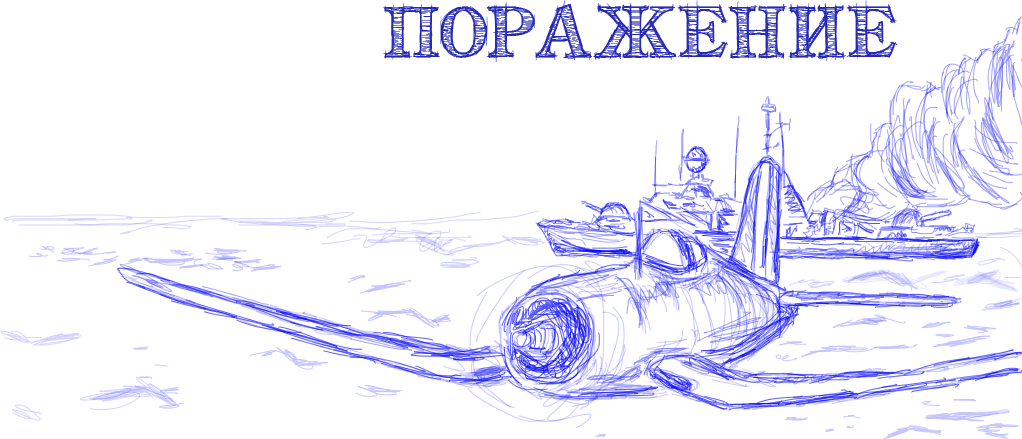
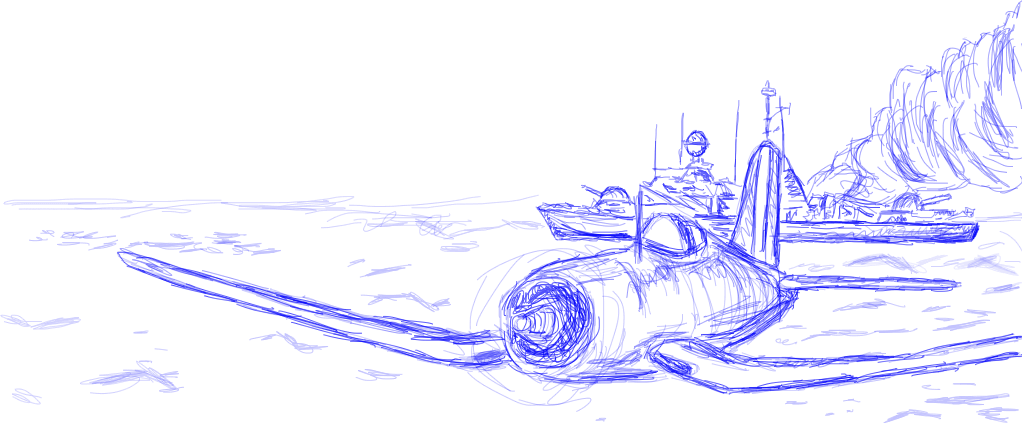
взависимости от победителя выводим конечное изображение - переделано

diff --git a/Sea_Battle/DrawImage.cs b/Sea_Battle/DrawImage.cs
@@ -16,6 +16,12 @@ namespace Sea_Battle
         public Image image;
         public Point point;
     }
+    struct TextOnField
+    {
+        public string text;
+        public Point point;
+        public Font font;
+    }
     public delegate void FinishRocketAnimationDelegat();
     public delegate void FinishExplosionAnimationDelegat();
     internal class DrawImage : Form
@@ -24,6 +30,7 @@ namespace Sea_Battle
         public event FinishExplosionAnimationDelegat FinishExplosionAnimationEvent;
         List<Picture> _drawPicture;
         List<Picture> _tempPictureRocket; // временное хранение картинки "ракеты"
+        List<TextOnField> _drawText;
         MainForm _parent;
         EmbededFont _font;
         PictureBox _animation; // box для анимации промаха и попадания
@@ -31,18 +38,21 @@ namespace Sea_Battle
         Timer _deleteExplosionAnimation; // удаляем box с анимацией взрыва
         Picture _picture; // картинки промаха и попадания
         Picture _pictureShip; // картинки кораблей
+        TextOnField _text;
         bool _isDead; // корабыль уничтожен
         Point _imagePosition; // позиция отрисовки картинки промаха или попадания
         public PictureBox WhoShoot { get; set; } // показывает чей сейчас ход
         public DrawImage(MainForm parent, EmbededFont font)
         {
             _parent = parent;
-            //_font = font;
+            _font = font;
 
             _parent.Paint += new PaintEventHandler(ImagesOnField_Paint);
+            _parent.Paint += new PaintEventHandler(DrawTextOnField_Paint);
 
             _drawPicture = new List<Picture>();
             _tempPictureRocket = new List<Picture>();
+            _drawText = new List<TextOnField>();
 
             _deleteRocketAnimation = new Timer();
             _deleteRocketAnimation.Tick += new EventHandler(DeleteRocketAnimation);
@@ -53,7 +63,9 @@ namespace Sea_Battle
             _isDead = false;
 
             WhoShoot = new PictureBox();
+            _font = font;
         }
+
         public void FinishRocketAnimation()
         {
             if (FinishRocketAnimationEvent != null)
@@ -108,6 +120,18 @@ namespace Sea_Battle
                 g.DrawImage(item.image, item.point.X, item.point.Y, item.image.Width, item.image.Height);
             }
         }
+        private void DrawTextOnField_Paint(object? sender, PaintEventArgs e)
+        {
+            SolidBrush colorBrush = new SolidBrush(_parent.ColorText);
+
+            foreach (var item in _drawText)
+            {
+                Graphics g = e.Graphics;
+                g.DrawString(item.text, item.font, colorBrush, item.point);
+            }
+
+            colorBrush.Dispose();
+        }
         public void AddPlayerShipsToList(CreateFleetOfShips fleet, CreatePlayingField field)
         {
             for (int i = 0; i < fleet.CountShips; i++)
@@ -127,6 +151,15 @@ namespace Sea_Battle
         public void AddImageToList()
         {
             _drawPicture.Add(_picture);
+            _parent.Invalidate();
+        }
+        public void AddTextToList(string str, Point point, Font font)
+        {
+            _text.text = str;
+            _text.point = point;
+            _text.font = font;
+
+            _drawText.Add(_text);
             _parent.Invalidate();
         }
         public void AddImageRocketToTempList()
@@ -306,13 +339,17 @@ namespace Sea_Battle
         public void ClearBackground()
         {
             Graphics g = _parent.CreateGraphics();
-            g.Clear(Color.FromArgb(169, 94, 19));
+            g.Clear(_parent.ColorBG);
             Bitmap bitmap = new Bitmap(Properties.Resources.bg_clear);
             _parent.BackgroundImage = bitmap;
         }
         public void ClearListDrawPicture()
         {
             _drawPicture.Clear();
+        }
+        public void ClearListDrawText()
+        {
+            _drawText.Clear();
         }
     }
 }

diff --git a/Sea_Battle/EmbededFont.cs b/Sea_Battle/EmbededFont.cs
@@ -19,6 +19,7 @@ namespace Sea_Battle
 
         Font _btnFontPressed;
         Font _btnFontReleased;
+        Font BattleResultFont { get; }
         public Font GetBtnFontPressed() { return _btnFontPressed; }
         public Font GetBtnFontReleased() { return _btnFontReleased; }
 
@@ -34,6 +35,7 @@ namespace Sea_Battle
 
             _btnFontPressed = new Font(fonts.Families[0], 26.0F, FontStyle.Bold, GraphicsUnit.Point);
             _btnFontReleased = new Font(fonts.Families[0], 30.0F, FontStyle.Bold, GraphicsUnit.Point);
+            BattleResultFont = new Font(fonts.Families[0], 60.0F, FontStyle.Bold, GraphicsUnit.Point);
         }
         public Font CreateFont(float size, FontStyle style)
         {

diff --git a/Sea_Battle/GameStatistics.cs b/Sea_Battle/GameStatistics.cs
@@ -1,0 +1,23 @@
+using System;
+using System.Collections.Generic;
+using System.Linq;
+using System.Text;
+using System.Threading.Tasks;
+
+namespace Sea_Battle
+{
+    internal class GameStatistics
+    {
+        int _countPlayerWin;
+        int _countEnemyWin;
+        int _battleTotal;
+        MainForm _parent;
+        EmbededFont _font;
+
+        public GameStatistics(MainForm parent, EmbededFont font)
+        {
+            _parent = parent;
+            _font = font;
+        }
+    }
+}
